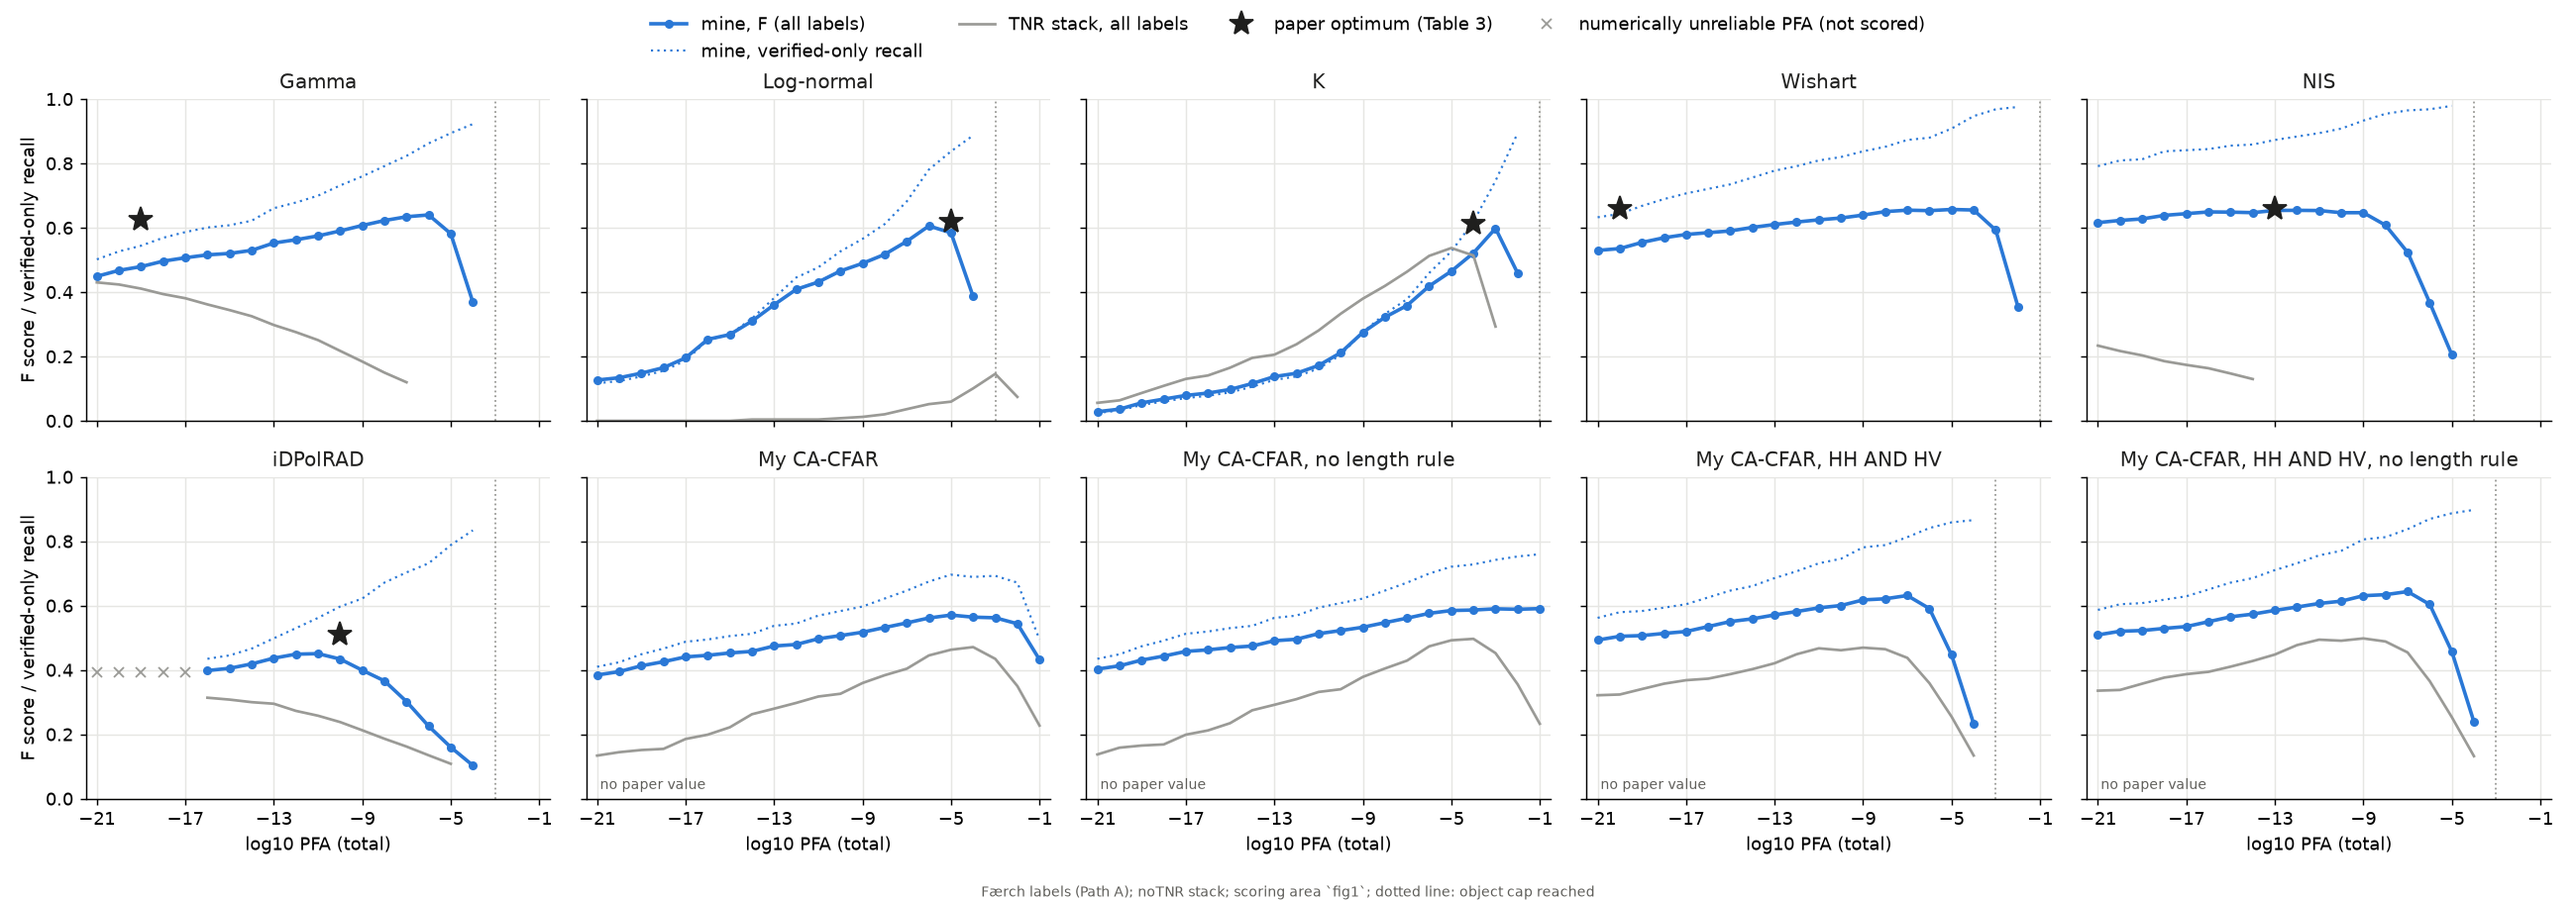
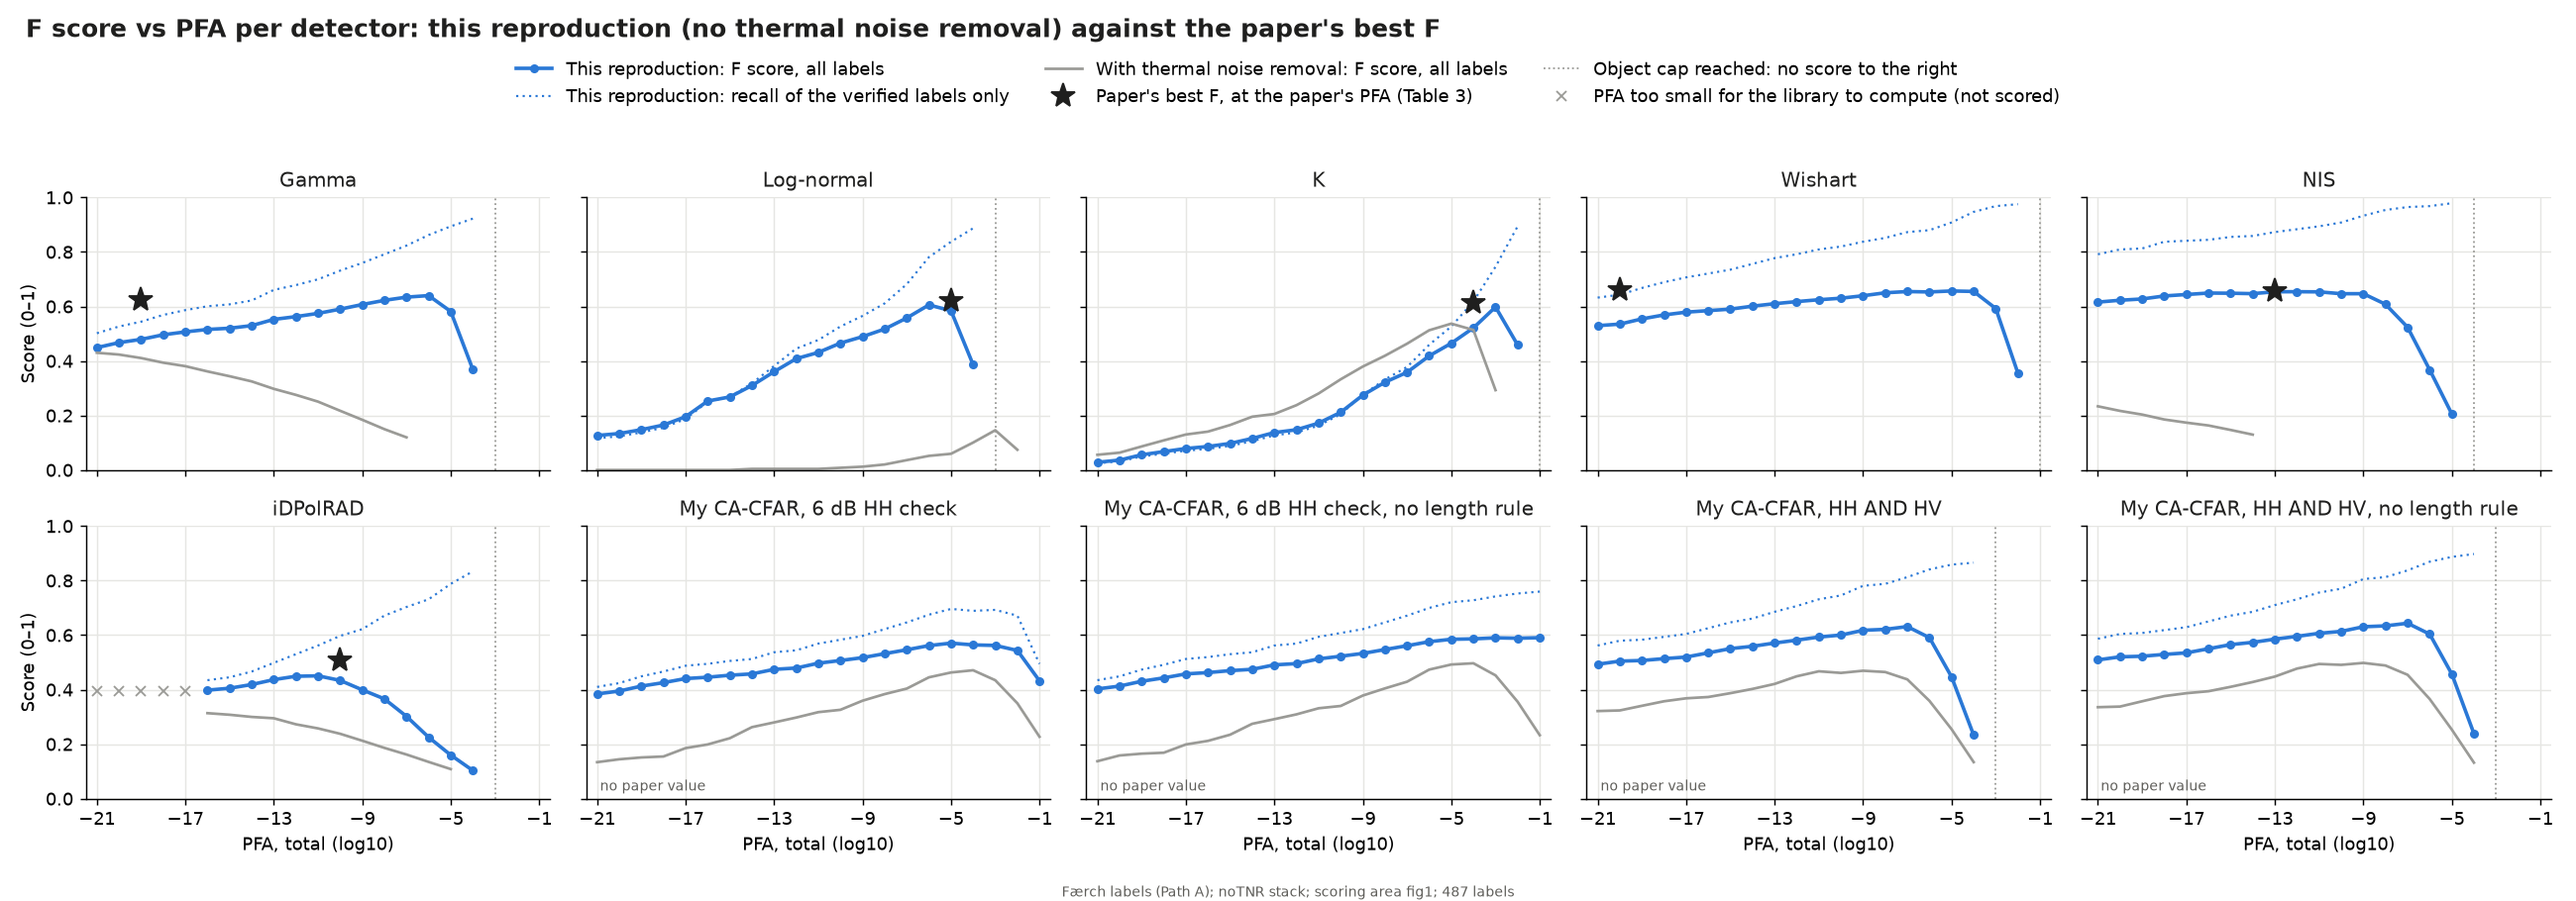
Reproduction figures: descriptive titles, plain-language legends
F-vs-PFA panels get a figure title, legend entries in plain words, a
legend entry for the object-cap line, and "Score (0-1)" / "PFA, total
(log10)" axes. The Fig. 6-style title "F Score (Accuracy)" becomes "F
score vs PFA" (F is not accuracy) and is optional. The 6 dB-check
CA-CFAR variants are named as such. Figures redrawn from the current
score CSVs (no re-scoring).

diff --git a/src/iceberg_sar/benchmark/score.py b/src/iceberg_sar/benchmark/score.py
@@ -53,7 +53,8 @@ from iceberg_sar.evaluation import EvalDomain
 PAPER_NAMES = {"Gamma": "gamma", "iDPolRAD": "idpolrad", "K": "k", "Log-normal": "lognorm",
                "NIS": "nis", "Wishart": "wishart"}
 # 2a: my CA-CFAR (`sweep.cacfar_tag`), scored with the rest; no paper value to compare with
-MINE = {"cacfar": "My CA-CFAR", "cacfar-nolength": "My CA-CFAR, no length rule",
+MINE = {"cacfar": "My CA-CFAR, 6 dB HH check",
+        "cacfar-nolength": "My CA-CFAR, 6 dB HH check, no length rule",
         # 2c: HH AND HV CA-CFAR instead of the 6 dB co-pol check
         "cacfar-and": "My CA-CFAR, HH AND HV",
         "cacfar-nolength-and": "My CA-CFAR, HH AND HV, no length rule"}
@@ -402,7 +403,8 @@ GREY = "#9a9a96"         # the other stack variant (context, not a series of its
 
 def f_figure(scores: pd.DataFrame, ref: dict[str, Any], fig6: pd.DataFrame | None,
              detectors: list[str], out: Path, note: str,
-             alt: pd.DataFrame | None = None, alt_label: str = "") -> Path:
+             alt: pd.DataFrame | None = None, alt_label: str = "",
+             title: str = "") -> Path:
     """Small multiples: F vs PFA per detector (all labels), verified-only recall, paper
     optimum; `alt`: the other stack variant's all-labels F, drawn in grey. Runs flagged
     `unreliable` (revision C2) are grey crosses, not part of the curve."""
@@ -420,12 +422,13 @@ def f_figure(scores: pd.DataFrame, ref: dict[str, Any], fig6: pd.DataFrame | Non
         bad = d.unreliable.astype(bool) if "unreliable" in d else pd.Series(False, d.index)
         u, d = d[bad], d[~bad]
         x = np.log10(d.pfa)
-        ax.plot(x, d.f, color=LIGHT_BLUE, lw=2, marker="o", ms=4, label="mine, F (all labels)")
+        ax.plot(x, d.f, color=LIGHT_BLUE, lw=2, marker="o", ms=4,
+                label="This reproduction: F score, all labels")
         ax.plot(x, d.recall_v, color=LIGHT_BLUE, lw=1.2, ls=(0, (1, 2)),
-                label="mine, verified-only recall")
+                label="This reproduction: recall of the verified labels only")
         if len(u):
             ax.plot(np.log10(u.pfa), u.f, color=GREY, marker="x", ms=6, ls="none",
-                    label="numerically unreliable PFA (not scored)")
+                    label="PFA too small for the library to compute (not scored)")
         if alt is not None:
             a = alt[alt.detector == det].sort_values("pfa")
             if "unreliable" in a:
@@ -437,10 +440,11 @@ def f_figure(scores: pd.DataFrame, ref: dict[str, Any], fig6: pd.DataFrame | Non
         if det in ref["table3"]:
             t = ref["table3"][det]
             ax.plot(np.log10(t["pfa"]), t["derived"]["f"], marker="*", ms=14, color=INK,
-                    ls="none", label="paper optimum (Table 3)")
+                    ls="none", label="Paper's best F, at the paper's PFA (Table 3)")
         cap = d[d.over_cap]
         if len(cap):
-            ax.axvline(np.log10(cap.pfa.min()), color="#9a9a96", lw=1, ls=":")
+            ax.axvline(np.log10(cap.pfa.min()), color="#9a9a96", lw=1, ls=":",
+                       label="Object cap reached: no score to the right")
         ax.set_title(DISPLAY.get(det, det), fontsize=11, color=INK)
         if det in MINE:
             ax.text(0.03, 0.03, "no paper value", transform=ax.transAxes, fontsize=8,
@@ -452,17 +456,19 @@ def f_figure(scores: pd.DataFrame, ref: dict[str, Any], fig6: pd.DataFrame | Non
         for s in ("top", "right"):
             ax.spines[s].set_visible(False)
     for ax in axes[-1]:
-        ax.set_xlabel("log10 PFA (total)")
+        ax.set_xlabel("PFA, total (log10)")
     for ax in axes[:, 0]:
-        ax.set_ylabel("F score / verified-only recall")
+        ax.set_ylabel("Score (0–1)")
     leg: dict[str, Any] = {}
     for ax in axes.flat:
         for h_, l_ in zip(*ax.get_legend_handles_labels(), strict=True):
             leg.setdefault(l_, h_)
-    fig.legend(list(leg.values()), list(leg), loc="upper center", ncol=min(len(leg), 4),
-               frameon=False)
+    fig.suptitle(title or "F score vs PFA, one panel per detector", fontsize=14,
+                 color=INK, x=0.01, ha="left", fontweight="bold")
+    fig.legend(list(leg.values()), list(leg), loc="upper center", ncol=3,
+               frameon=False, bbox_to_anchor=(0.5, 0.95), fontsize=10)
     fig.text(0.5, 0.005, note, ha="center", fontsize=8, color="#5f5e5a")
-    fig.tight_layout(rect=(0, 0.03, 1, 0.94))
+    fig.tight_layout(rect=(0, 0.03, 1, 0.88))
     out.parent.mkdir(parents=True, exist_ok=True)
     fig.savefig(out, dpi=130, facecolor="white")
     plt.close(fig)
@@ -478,7 +484,7 @@ FIG6_STYLE = {"lognorm": ("#3e6fa8", "1"), "gamma": ("#5ec8ec", "2"), "k": ("#2e
 
 
 def fig6_style_figure(scores: pd.DataFrame, detectors: list[str], out: Path, subtitle: str,
-                      note: str) -> Path:
+                      note: str, title: str | None = "F score vs PFA, all detectors") -> Path:
     """All detectors' all-labels F vs PFA on one panel, styled like the paper's Fig. 6.
     Over-cap PFAs (no score) are left out, so a curve can end before 1e-1."""
     import matplotlib
@@ -518,7 +524,8 @@ def fig6_style_figure(scores: pd.DataFrame, detectors: list[str], out: Path, sub
     # outside the axes: with 8 curves, every corner inside covers one of them
     ax.legend(loc="upper left", bbox_to_anchor=(1.02, 1), fontsize=12, facecolor="#eaeaf2",
               edgecolor="#cccccc")
-    fig.suptitle("F Score (Accuracy)", fontsize=18)
+    if title:
+        fig.suptitle(title, fontsize=18)
     fig.text(0.5, 0.01, note, ha="center", fontsize=8, color="#5f5e5a")
     fig.tight_layout(rect=(0, 0.03, 1, 1))
     out.parent.mkdir(parents=True, exist_ok=True)
@@ -796,13 +803,17 @@ def run_score(cfg: Config, source: str | None = None, log: Callable[[str], None]
     fig6 = pd.read_csv(fig6_path) if fig6_path.is_file() else None
     dets = [d for d in [*fc["sweep"]["detectors"], *MINE] if d in set(scores.detector)]
     note = ("Færch labels (Path A)" if source == "faerch" else "RECONSTRUCTED LABELS (Path B)") + \
-        f"; {_variant(cfg)} stack; scoring area `{sc['aoi']}`; dotted line: object cap reached"
+        f"; {_variant(cfg)} stack; scoring area {sc['aoi']}; {len(labels) - n_out} labels"
+    tnr = _variant(cfg).startswith("TNR")
     fig = f_figure(scores, ref, fig6, dets, cfg.root / sc["figure"], note, alt,
-                   f"{_variant(other)} stack, all labels")
+                   ("Without" if tnr else "With") + " thermal noise removal: F score, all labels",
+                   title="F score vs PFA per detector: this reproduction "
+                         f"({'with' if tnr else 'no'} thermal noise removal) "
+                         "against the paper's best F")
     fig_s = fig6_style_figure(
         scores, dets, cfg.root / sc["figure_fig6_style"],
         f"Sentinel-1 ({'with' if _variant(cfg) == 'TNR' else 'no'} thermal noise removal)",
-        note.split("; dotted")[0] + "; all labels; over-cap PFAs left out")
+        note + "; F over all labels; PFAs over the object cap left out")
     rep = cfg.root / sc["report"]
     rep.write_text(report(cfg, source, ref, cmp, sizes, scores, len(labels),
                           n_out, fig, fig6 is not None, csvs, fig_s),
